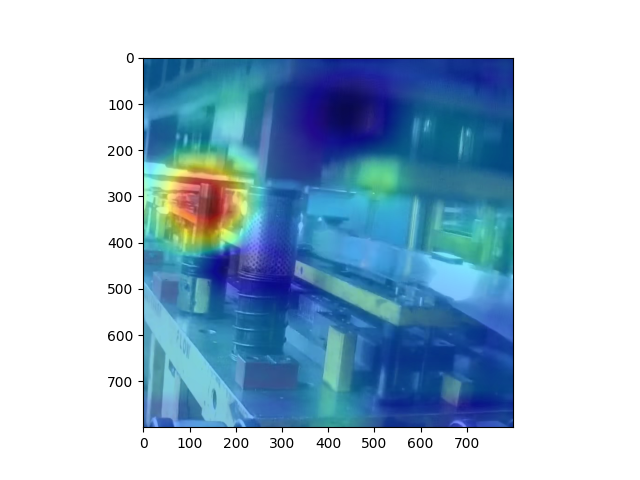
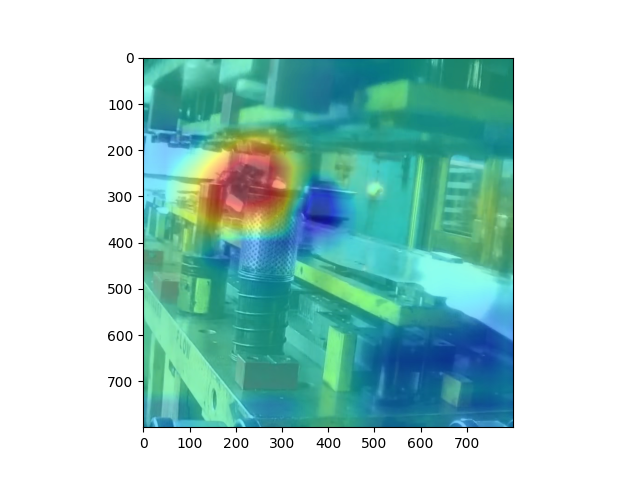
better example images

diff --git a/heatmap.py b/heatmap.py
@@ -46,7 +46,7 @@ def single_image(image_path: Path):
 
 
 if __name__ == '__main__':
-    image_path = Path('data/neg/90.jpg')
+    image_path = Path('data/neg/109.jpg')
     original_image, processed_image = single_image(image_path)
     model = get_resnet()
     try:
